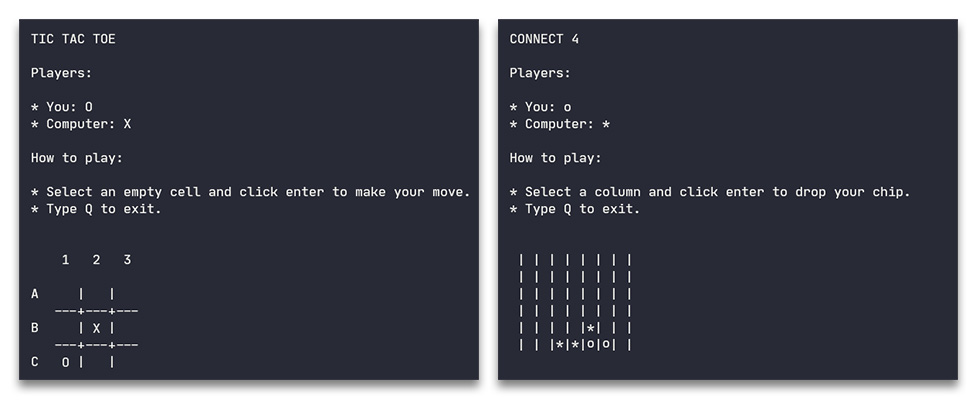
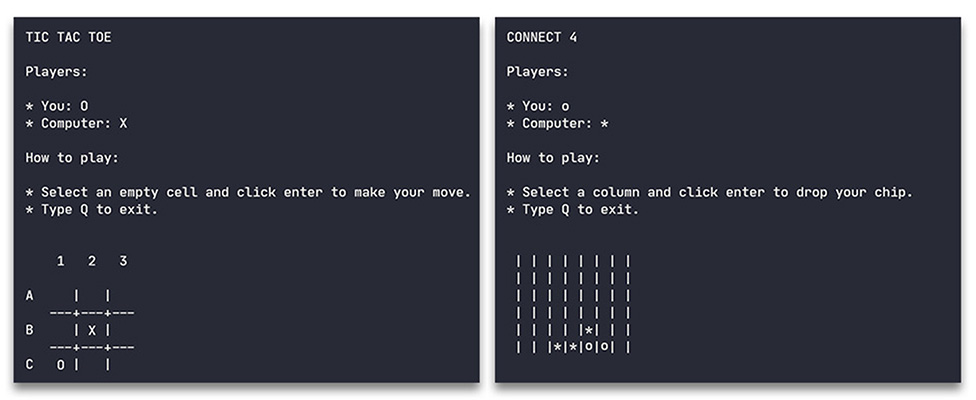
Updated readme
Updated readme

Changed region(s): [[0.0, 0.03, 1.0, 0.99], [0.0615, 0.63, 0.1537, 0.66]]

diff --git a/README.md b/README.md
@@ -5,9 +5,9 @@ These three games are all already implemented. Tic-tac-toe and Connect4 are cons
 
 ## Demo
 
-![Chess App Screenshots](https://raw.githubusercontent.com/ernestoyaquello/TwoPlayerZeroSumGameEngine/master/readme/chess-screenshots.jpg)
-
 ![Tic-tac-toe & Connect 4 Screenshots](https://raw.githubusercontent.com/ernestoyaquello/TwoPlayerZeroSumGameEngine/master/readme/tic-tac-toe-and-connect-4-screenshots.jpg)
+
+![Chess App Screenshots](https://raw.githubusercontent.com/ernestoyaquello/TwoPlayerZeroSumGameEngine/master/readme/chess-screenshots.jpg)
 
 * In tic-tac-toe, as the algorithm can analyse all the possibilities in the search tree, it is literally impossible to beat the machine.
 * In Connect 4, even though the machine is usually good, it is possible to beat it – as the computer cannot study all the possible moves, it has to rely on a score generated by a heuristic function that indicates how likely the player is to win or lose.
@@ -20,7 +20,7 @@ To implement a game, it is necessary to define 3 models:
 2. **State**: Represents the state of the game board. E.g. in a game like Connect 4, it will contain the information about where each chip is.
 3. **Board**: Represents the game board and its mechanics. It has a reference to the *state* and implements and manages its changes, which will be caused by *moves*. This is where the rules and heuristics of the game will be implemented.
 
-For more specific implementation details, the two games that are already in this repository can be used as a reference.
+For more specific implementation details, the three games that are already in this repository can be used as a reference.
 
 ## License
 ```
